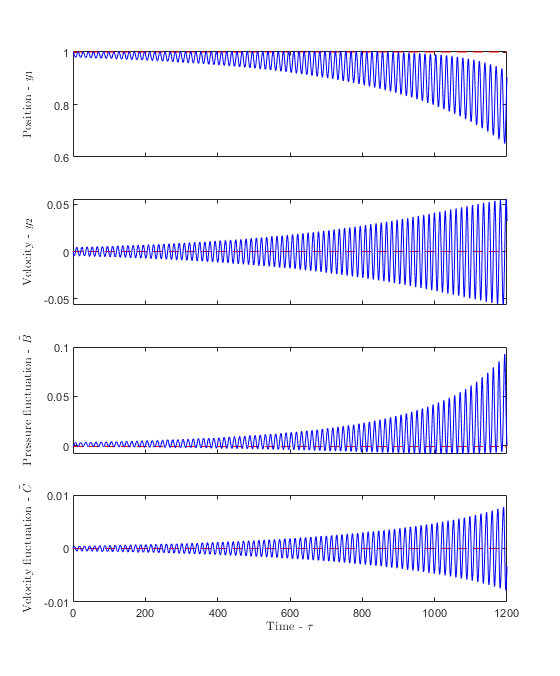
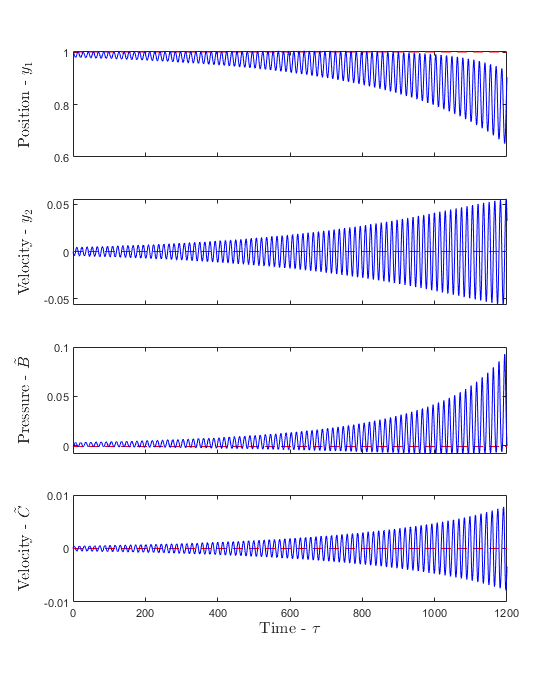
Made Alan's suggested edits and updated figure label size.

diff --git a/Sections/QuarterWaveModel.tex b/Sections/QuarterWaveModel.tex
@@ -267,7 +267,7 @@ Now, a comparison between the coefficients for each of the terms of the ordinary
 
 However, two of the coefficients have a error of $36.3\%$ and $40.0\%$. Both of these coefficients are from the convective terms of the partial differential equation, which are generally negligible for the compressible liquid case~\cite{Hos2016DynamicService}. That the convective effects are negligible will confirmed in \cref{subsec: QWMNonDim} when the dimensionless differential equations are calculated. Hence, the difference between using the Galerkin and Collocation techniques appears largely unimportant.
 
-\section{Quarter-wave derivation} \label{subsec: QWM Derivation}
+\section{Quarter-wave model derivation} \label{subsec: QWM Derivation}
 
 As stated previously, the one-mode truncation was found appropriate for the spring-operated case~\cite{Hos2015ModelPipe}. Therefore, one the one-mode truncation will now be considered, corresponding to the acoustic quarter-wave. For a direct spring-operated PRV, using the collocation technique to perform a model reduction was shown to be quantitatively similar to experimental data~\cite{Hos2015DynamicModelling}. Hence, only the coefficients from the collocation technique will be used, which also ensures the following analysis is consistent with the spring-operated case. We begin by ensuring the boundary conditions are satisfied by the quarter-wave model.
 %
@@ -445,11 +445,12 @@ An additional bonus of using this simplification is the differential equations a
 \end{split}
 \end{equation}
 
-\section{Quarter wave behaviour} \label{sec: QWBehaviour}
+\section{Analysis of the quarter-wave model} \label{sec: QWBehaviour}
 
 %We will now display the quarter-wave behaviour of \cref{eq: FullQWMDimensional}.
-The quarter-wave behaviour of \cref{eq: FullQWMDimensional} will now be shown.
-This is done by fixing the valve closed, so $x = \dot{x} = 0$, and enforcing that the tank pressure remains constant, so $\dot{p}_t = 0$. The  equation for $\dot{C}(t)$ is differentiated again to find an expression for $\ddot{C}(t)$. Applying the closed valve and constant tank pressure conditions gives
+%The quarter-wave behaviour of \cref{eq: FullQWMDimensional} will now be shown. This is done by fixing the valve closed, so $x = \dot{x} = 0$, and enforcing that the tank pressure remains constant, so $\dot{p}_t = 0$.
+Consider first the approximation that the valve is fixed closed, so $x = \dot{x} = 0$, and the tank pressure remains constant, so $\dot{p}_t = 0$.
+The  equation for $\dot{C}(t)$ is differentiated again to find an expression for $\ddot{C}(t)$. Applying the closed valve and constant tank pressure conditions gives
 ~
 \begin{equation*}
     \ddot{C} = \frac{\pi \sqrt{2}}{2 L} C \dot{C} - \frac{1}{\rho} \frac{\pi}{2 L} \dot{B} \, .
@@ -469,9 +470,11 @@ This equation for $\ddot{C}(t)$ is an oscillator with a natural frequency of
 
 which corresponds to the quarter-wave frequency of the pipe.
 
-\subsection{Fixed open valve}
+%\subsection{Fixed open valve}
 
-Instead, the valve will be fixed open at the equilibrium lift. Again, both $\dot{x} = 0$ and $\dot{p}_t = 0$. Also, any convective and frictional terms are neglected. Differentiating the equation for $\dot{C}(t)$ and applying the fixed valve and constant tank pressure gives
+Next, suppose the valve is held open at its equilibrium lift position (even though this is unstable as shown in \cref{sec: Prog}) while again the tank pressure is held constant. Hence, $x = 1$ while $\dot{x} = 0$ and $\dot{p}_t = 0$.
+%Instead, the valve will be fixed open at the equilibrium lift. Again, both $\dot{x} = 0$ and $\dot{p}_t = 0$.
+Also, any convective and frictional terms are neglected. Differentiating the equation for $\dot{C}(t)$ and applying the fixed valve and constant tank pressure gives
 ~
 \begin{equation*}
     \ddot{C} + \frac{\pi \sqrt{2}}{4} \frac{\rho a^2 \zeta}{L A_p \sqrt{\rho}} \frac{x}{\sqrt{p_t + B}} \dot{C} +
@@ -712,13 +715,14 @@ Notably, the parameter $\delta$ is only a function of the valve and pipe areas, 
         $\sigma$ & Velocity to mass flow rate parameter & 10.3808 & - \\ \hline
         $\phi$ & Friction factor & 5.5243 $\times 10^{-3}$ & - \\
     \end{tabular}
-    \caption{Typical parameter values for a Pilot-Operated PRV used for the Valve Closing QWM.}
+    \caption{Typical parameter values for a pilot-operated PRV used for the quarter-wave model.}
     \label{tab: ValveClosingQWMParameterValues}
 \end{table}
 
 \Cref{tab: ValveClosingQWMParameterValues} shows the typical values of both the dimensional and dimensionless parameters used by the quarter-wave model. Where ever possible, the dimensional parameters have been chosen to be equivalent with the spring-operated PRV~\cite{Hos2016DynamicService}. However, the dimensionless parameters are found to be different to the spring-operated case.
 
-\section{Pipe-mode instability} \label{subsec: QWMAnalyticalBound}
+\newpage
+\section{Analytical prediction of the pipe-mode instability} \label{subsec: QWMAnalyticalBound}
 
 As shown by the fluid behaviour for the spring-operated case~\cite{Hos2015ModelPipe}, the convective and dissipative frictional losses within the pipe may be neglected. The convective effects are neglected by setting $\Lambda = 0$ and the dissipative effects are neglected by setting $\phi = 0$. From the values of the dimensionless parameters in \cref{tab: ValveClosingQWMParameterValues}, both $\Lambda$ and $\phi$ are orders of magnitude smaller than the other terms. Hence, the quarter-wave model given by \cref{eq: FullQWMDimensionless} reduces to
 ~

diff --git a/Sections/Continuation.tex b/Sections/Continuation.tex
@@ -2,7 +2,7 @@
 
 In order to find if a Hopf bifurcation occurs for the fixed tank pressure system, \cref{eq: QWFixedTankPressure}, a numerical continuation was performed using MatCont~\cite{Dhooge2003MATCONT}. This continuation would look for bifurcations of the unstable saddle at $(y_1,y_2,\tilde{B},\tilde{C})^T = (1,0,0,0)^T$. First, the pipe length parameter ($\gamma$) was varied while the other parameters are as in \cref{tab: ValveClosingQWMParameterValues}. However, convective effects and pipe friction were ignored ($\Lambda = \phi = 0$) and the tank was held at $p_0 = 1$. A Hopf bifurcation was found to occur at $\gamma \approx 0.85$.
 %$\gamma = 0.850102$.
-The Lyapunov coefficient of this bifurcation was calculated as  $5.4 \times 10^{-02}$, suggesting that a subcritical Hopf bifurcation occurs.
+The Lyapunov coefficient of this bifurcation was calculated as  $5.4 \times 10^{-02}$, suggesting that a subcritical Hopf bifurcation occurs. Therefore, just before the bifurcation occurs, oscillations could be observed given a large enough initial condition.
 
 Once the subcritical Hopf bifurcation was found, the location at which the bifurcation occurs can be followed by varying two parameters. As the two parameters of interest, both the pipe length parameter, $\gamma$, and fixed tank pressure, $p_0$, were chosen. The numerical continuation then allows a two parameter bifurcation diagram
 %, or alternatively a stability boundary,
@@ -13,7 +13,7 @@ to be created. \Cref{fig: BifurcationDiagram} shows these results.
 \begin{figure}[ht]
     \centering
     \includegraphics[width=0.7\textwidth]{Figures/BifurcationDiagram.png}
-    \caption{Two parameter bifurcation diagram showing the numerical continuation of the subcritical Hopf bifurcation (lower solid black line). Also shown is the analytical stability boundary, calculated in \cref{subsec: QWMAnalyticalBound}, shown as the higher dashed black line. The critical pipe length $\gamma_c$ (\cref{eq: CritPipeLength}) is shown as a red dash-dotted horizontal line. Simulations performed in \cref{sec: QWSim} are denoted by the red circle, red diamond, blue cross, and blue asterisk (see \cref{sec: QWSim} for further details).}
+    \caption{Two parameter bifurcation diagram showing the numerical continuation of the subcritical Hopf bifurcation (lower solid black line). Also shown is the analytical stability boundary, \cref{eq: QWMStabilityInequality} calculated in \cref{subsec: QWMAnalyticalBound}, shown as the higher dashed black line. The critical pipe length $\gamma_c$, given by \cref{eq: CritPipeLength}, is shown as a red dash-dotted horizontal line. Simulations performed in \cref{sec: QWSim} are denoted by the red circle, red diamond, blue cross, and blue asterisk (see \cref{sec: QWSim} for further details).}
     \label{fig: BifurcationDiagram}
 \end{figure}
 % 
@@ -33,7 +33,15 @@ to be created. \Cref{fig: BifurcationDiagram} shows these results.
 % \end{split}
 % \end{equation*}
 
-Also shown in \cref{fig: BifurcationDiagram} is the analytical stability boundary, calculated in \cref{subsec: QWMAnalyticalBound}, which tries to approximate where this Hopf bifurcation occurs. It is clear there is a large difference between these two results. However, as will be shown in \cref{sec: QWSim}, these two boundaries separate the dynamics into three %topologically equivalent
-regions. For short pipe lengths, the Hopf bifurcation is yet to occur, and so any oscillations will decay. For longer pipe lengths, after the Hopf bifurcation occurs, oscillations will grow. However, these oscillations grow slower than the piston closes, and the closing dynamics dominates. This region could be considered where flutter would be observed. Finally, for very long pipe lengths, the oscillations grow faster than the main piston will close, meaning chatter will occur.
+Also shown in \cref{fig: BifurcationDiagram} is the analytical stability boundary, calculated in \cref{subsec: QWMAnalyticalBound}, which tries to approximate where this Hopf bifurcation occurs. It is clear there is a large difference between these two results. One possible explanation of the discrepancy between the dashed and solid curves is the assumptions made in \cref{subsec: QWMAnalyticalBound} are too extreme, so the analytic stability boundary given by \cref{eq: QWMStabilityInequality} is not valid.
+
+\newpage
+An alternative explanation of the discrepancy is the two boundaries separate the dynamics into three
+regions.
+%However, as will be shown in \cref{sec: QWSim}, these two boundaries separate the dynamics into three regions.
+For short pipe lengths, the Hopf bifurcation is yet to occur.
+%, and so any oscillations will decay
+For longer pipe lengths, after the Hopf bifurcation occurs, oscillations will grow. However, these oscillations grow slower than the piston closes, and the closing dynamics dominates. This region could be considered where flutter would be observed. Lastly, for very long pipe lengths, the oscillations grow faster than the main piston will close, meaning chatter will occur. This hypothesis will later be explored using numerical simulation in \cref{sec: QWSim}.
+%An alternative explanation is the assumptions made in \cref{subsec: QWMAnalyticalBound} are too extreme.
 
 %% ADD SHORT SECTION EXPLAINING DIFFERENT TREND TO SPRING-OPERATED

diff --git a/Sections/Conclusion.tex b/Sections/Conclusion.tex
@@ -1,7 +1,7 @@
 \chapter{Conclusion}
 
-The research presented by this report successfully developed a reduced-order dynamical model of a pilot-operated pressure relief valve (PRV) closing, valid immediately after the pilot valve has closed and the main valve begins closing. The model was derived from first principles, and a model reduction was performed using a collocation technique. A fixed tank pressure analysis identified the point at which the main valve piston acts as a negative damper on the quarter-wave within the inlet piping, initially believed to correspond to a Hopf bifurcation. A comparison to a numerical continuation of the Hopf bifurcation was then performed.
+A reduced-order dynamical model of a pilot-operated pressure relief valve (PRV) closing has been successfully developed, valid immediately after the pilot valve has closed and the main valve begins closing. The model was derived from first principles, and a model reduction was performed using a collocation technique. For many scenarios considered, the pilot operated PRV closes, demonstrating why a pilot operated PRV may be preferable to the simpler direct spring-operated PRV. Nevertheless, evidence of oscillatory behaviour suggested by Allison and Brun \cite{Allison2015TestingValves} is found. Fixed tank pressure analysis identifies the point at which the main valve piston acts as a negative damper on the quarter-wave within the inlet piping, initially believed to correspond to a Hopf bifurcation. A comparison to a numerical continuation of the Hopf bifurcation is then performed.
 
-Numerical simulations of both the fixed tank pressure and variable tank pressure quarter-wave models were performed. These successively demonstrated the models can reproduce both flutter and chatter instabilities. A progression from stable operation to flutter to chatter was observed as the pipe length is increased. For low pipe lengths, the main piston closes with any oscillations decaying. For longer pipe lengths, an apparent flutter instability occurs, where oscillations grow in time but the main piston still closes. For excessively long pipe lengths, chatter occurs where the oscillations grow faster than the valve closes.
+Numerical simulations of both the fixed tank pressure and variable tank pressure quarter-wave models are then performed. These successively demonstrate the models can reproduce both flutter and chatter instabilities. A progression from stable operation to flutter to chatter is observed as the pipe length is increased. For low pipe lengths, the main piston closes with any oscillations decaying. For longer pipe lengths, an apparent flutter instability occurs, where oscillations grow in time but the main piston still closes. For excessively long pipe lengths, chatter occurs where the oscillations grow faster than the valve closes.
 
-Many opportunities for further analysis into the instabilities of pilot-operated PRVs have been identified. Nonetheless, an analytical stability boundary beyond which chatter occurs has been found. However, the stability boundary must be validated against both CFD and experimental results. Finally, some differences are identified between the direct spring-operated and pilot-operated PRVs. One important difference, where pilot-operated PRVs develop stable flutter oscillations before developing into chatter, may help to explain why chatter is less common for pilot-operated PRVs.
+Many opportunities for further analysis into the instabilities of pilot-operated PRVs are identified. To greater understand how damaging chatter instabilities are, a more complex model including the pilot valve is required. Perhaps the oscillations can cause the pilot valve to open, causing a more extreme instability. Nonetheless, an analytical stability boundary beyond which chatter occurs has been found. However, this stability boundary must be validated against both CFD and experimental results. Finally, some differences are identified between the direct spring-operated and pilot-operated PRVs. One important difference, where pilot-operated PRVs develop stable flutter oscillations before developing into chatter, may help to explain why chatter is less common for pilot-operated PRVs.

diff --git a/Sections/literature_review.tex b/Sections/literature_review.tex
@@ -62,7 +62,7 @@ Despite the vast knowledge for instabilities in spring-operated PRVs, the unders
 %These were: the pilot valve begins to open, the main valve begins to move, the choked flow moves to the pipe opening, and the main valve is fully open.
 Importantly, acoustic waves within the upstream pipework were modelled.
 %It was found that a choked flow boundary condition at the valve corresponded very closely to closed boundary condition for the frequency of acoustic waves.
-For short pipe-lengths, the oscillations of the main valve piston was found to occurr at the quarter-wave frequency of the pipe. Although no instabilities were found numerically or experimentally, the authors claim a resonance occurs between the valve natural frequency and upstream pipework quarter-wave frequency. %Further work includes the effects of a wedge O-ring seal, reproducing a jamming of the piston which occurred experimentally~\cite{Botros1998Riser-ReliefModel}. %A wedge O-ring seal creates additional damping forces during the main valve opening, which reduced the amplitude of oscillations. By splitting the dynamics into stages, it becomes difficult to analyse analytically if a valve operates stably.
+For short pipe-lengths, the oscillations of the main valve piston was found to occur at the quarter-wave frequency of the pipe. Although no instabilities were found numerically or experimentally, the authors claim a resonance occurs between the valve natural frequency and upstream pipework quarter-wave frequency. %Further work includes the effects of a wedge O-ring seal, reproducing a jamming of the piston which occurred experimentally~\cite{Botros1998Riser-ReliefModel}. %A wedge O-ring seal creates additional damping forces during the main valve opening, which reduced the amplitude of oscillations. By splitting the dynamics into stages, it becomes difficult to analyse analytically if a valve operates stably.
 The proposed model allows the simulation of a pilot-operated PRV dynamics, but fails to allow stability analysis to determine how to prevent valve instabilities in practice.
 
 In a more recent study of pilot-operated PRVs, Zung and Perng proposed a simple model to aid with pilot-operated PRV design~\cite{Zung2002NonlinearDesigners}. One unique feature is a focus on using parameters based on physical properties.

diff --git a/Sections/QWMSimulation.tex b/Sections/QWMSimulation.tex
@@ -39,7 +39,7 @@ It is also worth noting that the damping does not occur if the main piston is fi
 %%%%%%%%%%%%%%%%%%%%%%%%%
 \section{Fixed tank pressure}
 
-Next, the main piston will be allowed to freely move based on the fluid forces that act upon it. However, the tank pressure remain fixed, which is realistic if tank is sufficiently large so the limit $V \rightarrow \infty$ implies that $\beta \rightarrow 0$. This corresponds to the fixed tank pressure model described by \cref{eq: QWFixedTankPressure}. The first simulation will be performed with the tank held at $p_0 = 0.2$ and the pipe length given by $\gamma = 2$. From the blue cross [\textcolor{Blue}{x}] in \cref{fig: BifurcationDiagram}, the dynamics are expected to be those of a stable valve closing. \Cref{fig: StableHopf} shows the time trajectories of the system.
+Next, the hypothesis presented in \cref{sec: Continuation}, that the dynamics can be separated into three regions, will be explored. The main piston will be allowed to freely move based on the fluid forces that act upon it. However, the tank pressure remain fixed, which is realistic if tank is sufficiently large so the limit $V \rightarrow \infty$ implies that $\beta \rightarrow 0$. This corresponds to the fixed tank pressure model described by \cref{eq: QWFixedTankPressure}. The first simulation will be performed with the tank held at $p_0 = 0.2$ and the pipe length given by $\gamma = 2$. From the blue cross [\textcolor{Blue}{x}] in \cref{fig: BifurcationDiagram}, the dynamics are expected to be those of a stable valve closing. \Cref{fig: StableHopf} shows the time trajectories of the system.
 ~
 \begin{figure}[ht]
     \centering
